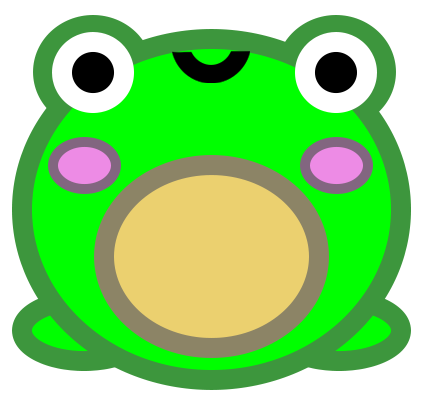
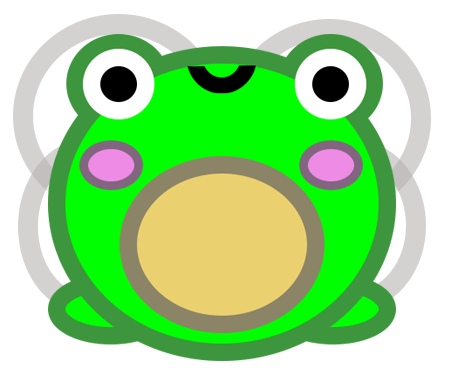
changed frog image and debbuging sound effects!!
quick try

diff --git a/topics/Mod_Jam/js/script.js b/topics/Mod_Jam/js/script.js
@@ -284,6 +284,7 @@ const badFly6 = {
     }
 };
 
+let hasPlayed = false
 let bgTimer = 0; // This tracks time for the background
 let score = 0; // The score starts at 0, score is number of flies eaten
 let placement = 0 // The placement starts at 0
@@ -455,6 +456,7 @@ function draw() {
     // Sets the different menus (1 to 6)
     if (MENU === 0) {
         mainMenu(); // Main menu
+        hasPlayed = false;
         score = 0; // Resets the score
         placement = 0; // Resets the placement
         bgTimer = 0; // Resets the timer
@@ -479,6 +481,7 @@ function draw() {
     }
     else if (MENU === 3) { // The game over menu if the user ate a poisonous fly
         gameOverPoison();
+        hasPlayed = false;
         score = 0; // Resets the score
         placement = 0; // Resets the placement
     }
@@ -883,7 +886,7 @@ function drawFrog() {
     // Used image as frog's body
     push();
     imageMode(CENTER);
-    image(frogImage, frog.body.x, frog.body.y, frog.body.size, frog.body.size)
+    image(frogImage, frog.body.x, frog.body.y, 175, frog.body.size)
     pop();
 }
 
@@ -977,7 +980,11 @@ function checkFrogBadFlyOverlap(fly) {
  */
 function gameOverPoison() {
 
-    gameOverSound.play(); // game over sound
+    // A game over sound plays, but after it has played it doesn't play again
+    if (!gameOverSound.isPlaying() && !hasPlayed) {
+        gameOverSound.play();
+        hasPlayed = true;
+    }
 
     // Translucent gray rectangle
     push();

diff --git a/topics/Mod_Jam/README.md b/topics/Mod_Jam/README.md
@@ -15,3 +15,11 @@ code for changing sky: https://editor.p5js.org/howshekilledit/sketches/nZ0VrkfPa
 
 Sound Effect: Option Hover Click
 Download from https://tunetank.com
+
+https://stackoverflow.com/questions/4738595/how-do-i-delay-a-function-call-for-5-seconds
+
+https://stock.adobe.com/ca/search?k=pixel+clouds&asset_id=706529322
+
+sounds from mixkit
+
+licking sound from https://pixabay.com/
